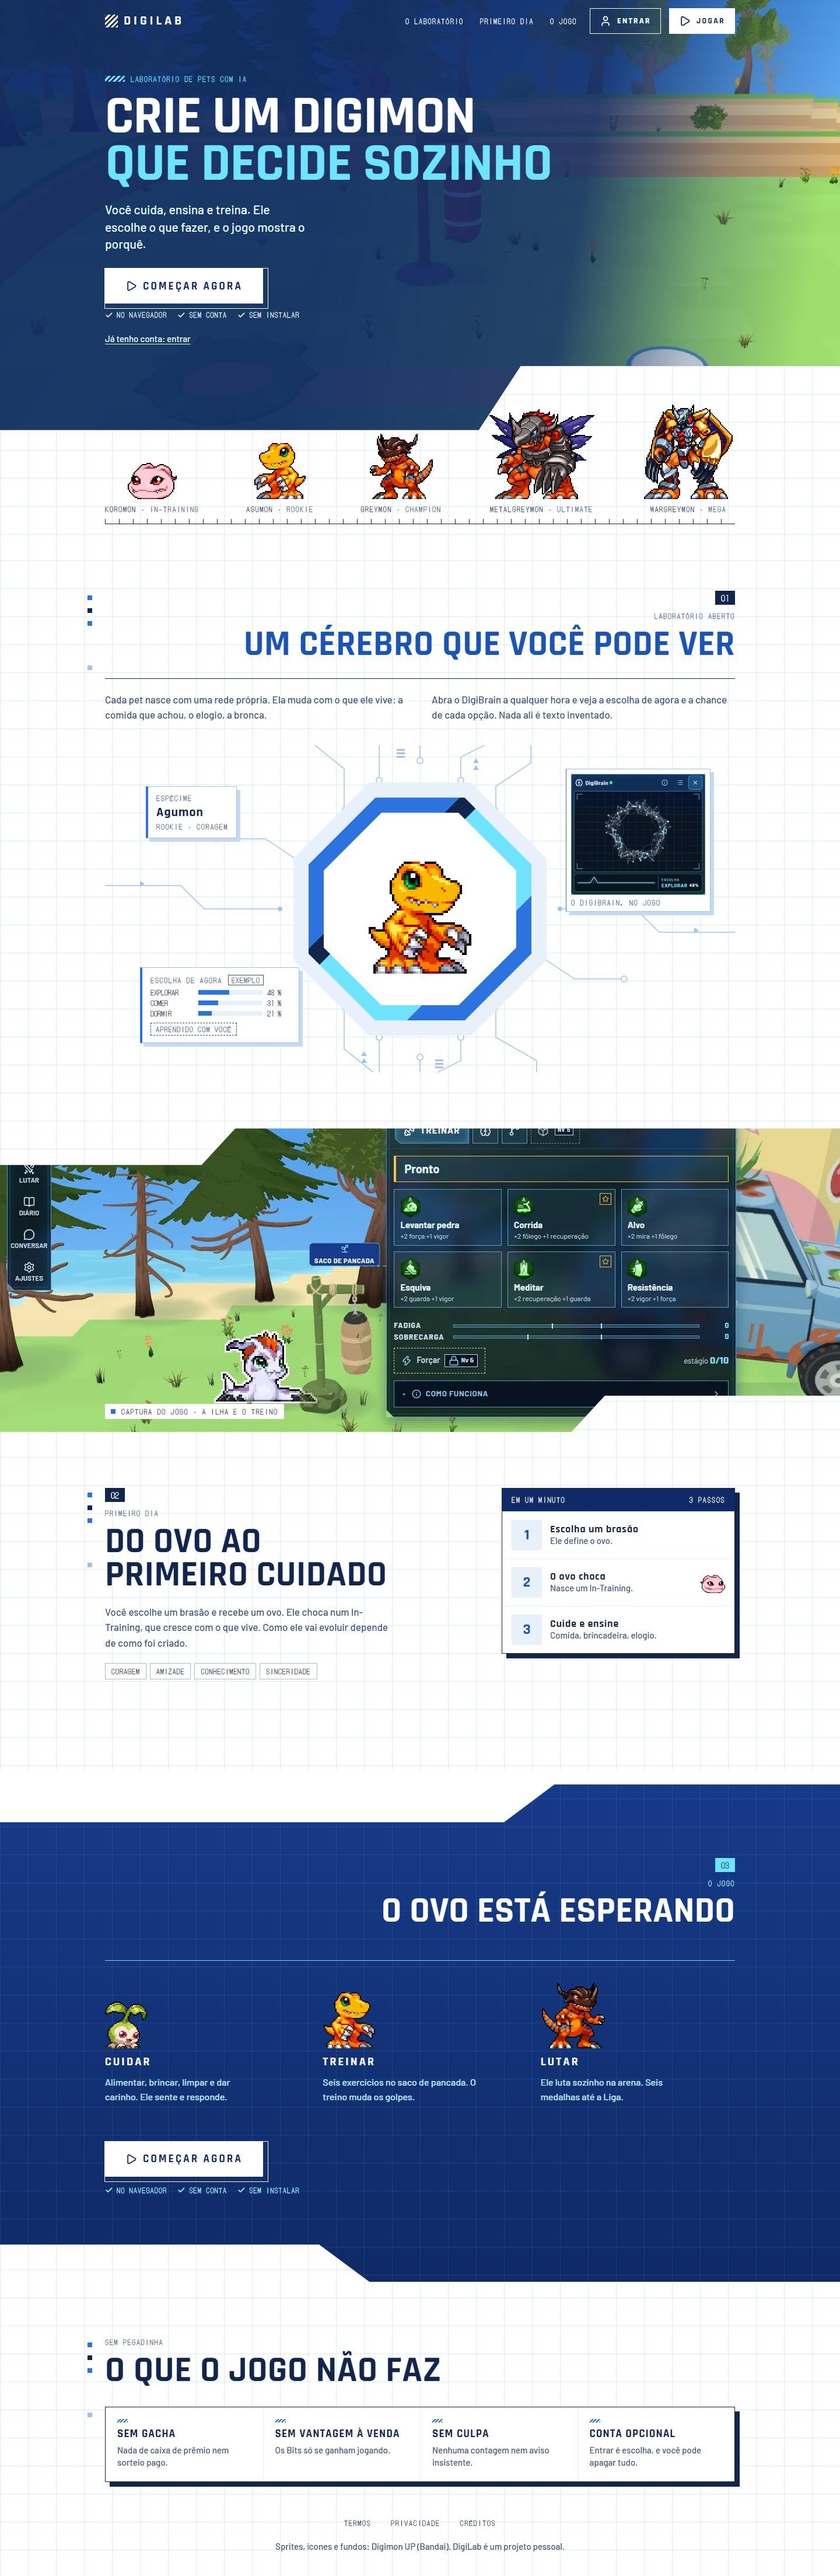
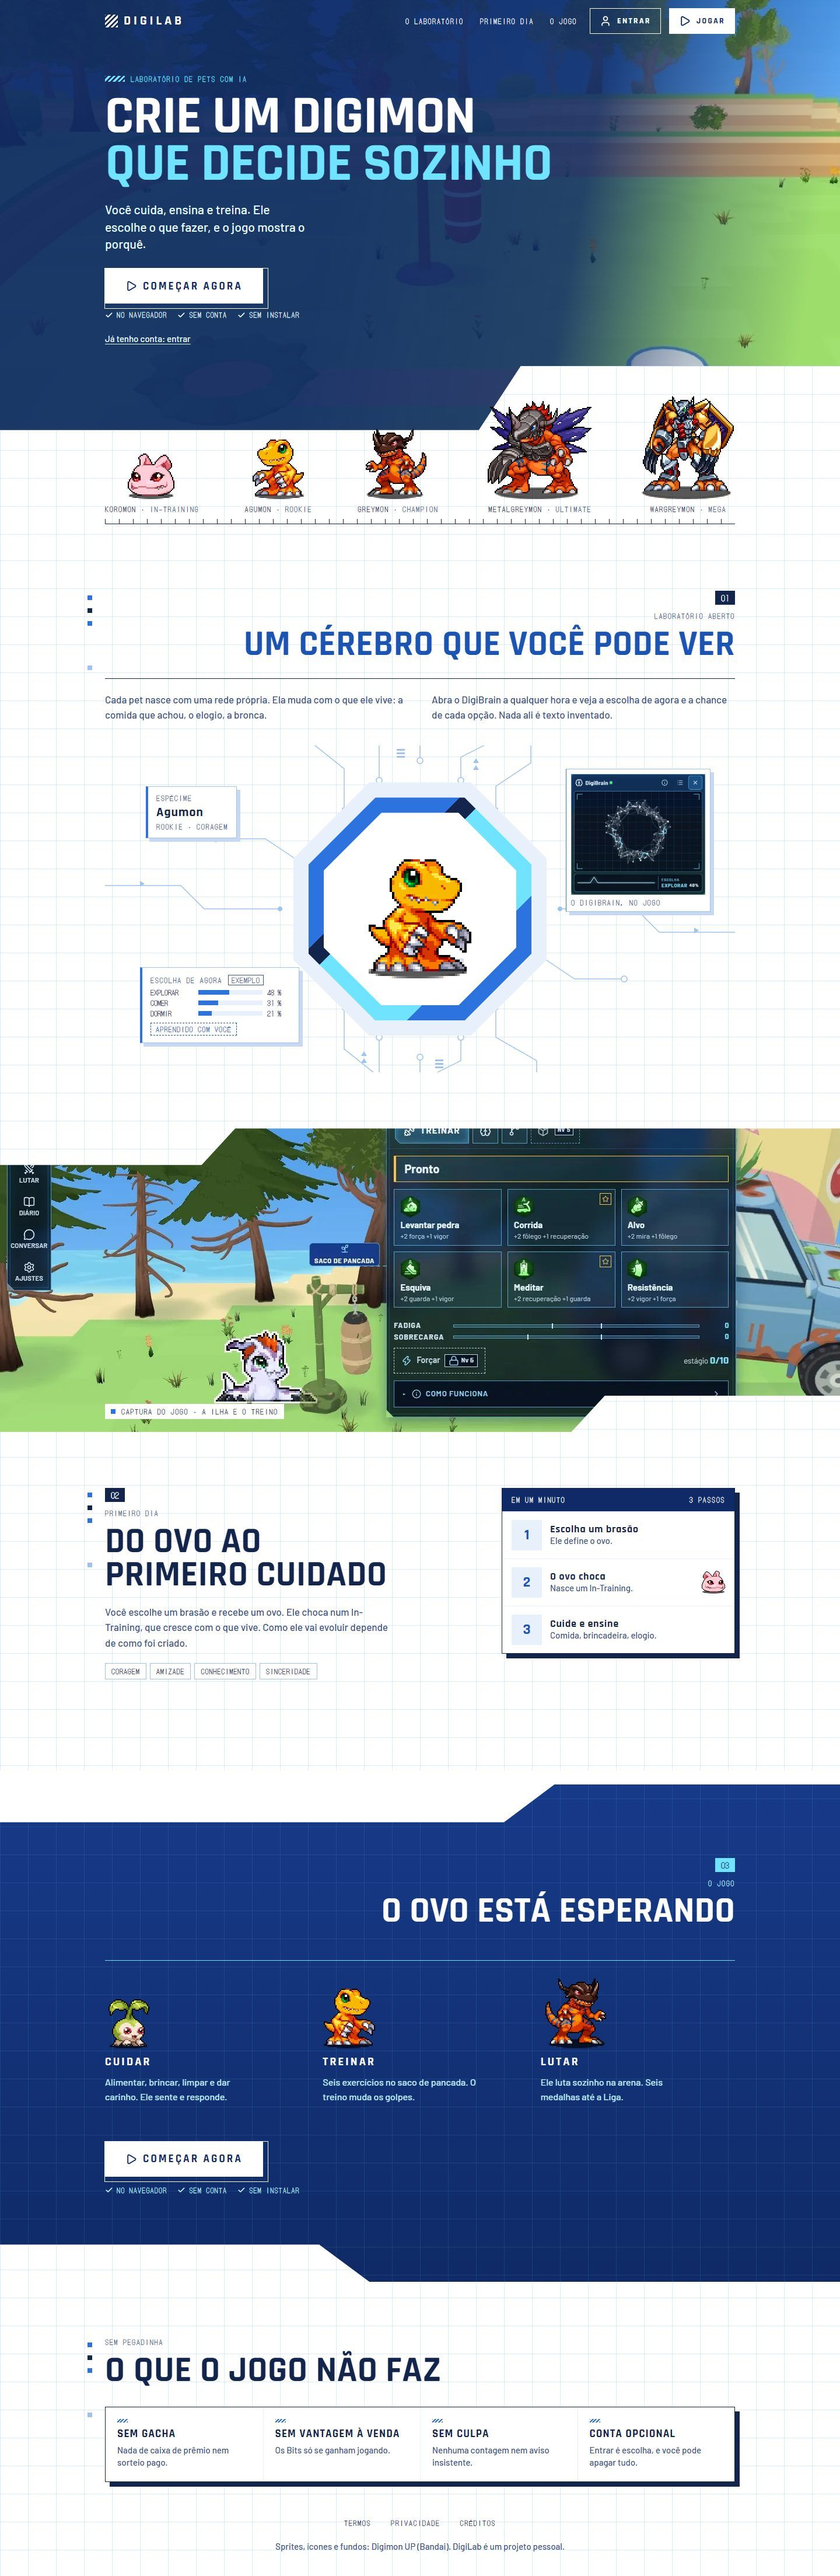
UX_TELA_PET: os pets da pagina de entrada pelo atlas de clipes (o do jogo)
A primeira versao lia o digilab_atlas_up.json antigo. O jogo desenha as formas pelo digilab_atlas_up_clipes.json (CLIPES_UP = true);
a pagina agora toca o clipe Idle dele, com a duracao de cada quadro, recortado ao minimo que contem os quadros do Idle. O dev da POC
passa a servir os dois arquivos do atlas de clipes.

diff --git a/web/app/poc/home/pet.tsx b/web/app/poc/home/pet.tsx
@@ -1,35 +1,47 @@
-/* Os pets da página de entrada: o ciclo parado (Idle) do atlas do jogo (Assets/digilab_atlas_up.json, fora do git), desenhado num
-   canvas em escala inteira, sem suavizar, como o desenharSprite do jogo (src/atlas.ts). O quadro é [x, y, w, h, ox, oy]: o recorte na
-   folha e o deslocamento dentro da caixa comum do ciclo.
+/* Os pets da página de entrada: o clipe Idle do atlas de clipes do Digimon UP (Assets/digilab_atlas_up_clipes.json, fora do git), o MESMO
+   que o jogo usa para as formas (src/atlas.ts, CLIPES_UP = true: juntarClipes troca o sprite do atlas antigo pelo do atlas de clipes). O
+   digilab_atlas_up.json antigo não entra aqui. Desenho num canvas em escala inteira, sem suavizar, como o desenharSprite do jogo.
+   - O quadro é [x, y, w, h, ox, oy]: o recorte na folha e o deslocamento dentro da caixa do sprite. A caixa dos clipes é larga (cabe as
+     outras ações e a base é o pé), então a página recorta a caixa ao mínimo que contém todos os quadros do Idle (RECORTE abaixo).
+   - Os recortes são cópias do atlas, para o espaço não depender da arte (guia, princípio 7). Se o atlas mudar e o Digimon ou o recorte
+     não baterem, o pet mostra "erro" na tela.
    - O atlas só é servido no modo dev (poc/vite.config.ts). No build e no e2e ele não existe: cada pet vira uma caixa visível
-     "sprite ausente", do tamanho da caixa dele (guia, princípio 8: falhar alto), e o console recebe um aviso, não um erro.
-   - As caixas abaixo são cópias do atlas, para o espaço não depender da arte (guia, princípio 7). Se o atlas mudar e a caixa ou o
-     Digimon não baterem, o pet mostra o erro na tela.
-   - Movimento (guia, seção 11): um quadro a cada ms_por_quadro do atlas (120 ms), só enquanto o pet está na tela; com
-     prefers-reduced-motion, o quadro 0 e nada se mexe. */
+     "sprite ausente", do tamanho do recorte (guia, princípio 8: falhar alto), e o console recebe um aviso, não um erro.
+   - Movimento (guia, seção 11): cada quadro dura o `ms` dele no clipe (133 ms nos da linha do Agumon), só enquanto o pet está na tela;
+     com prefers-reduced-motion, o quadro 0 e nada se mexe. */
 import { useEffect, useRef, useState, useSyncExternalStore } from "react";
 
 type Quadro = [number, number, number, number, number, number];
-interface SpriteAtlas { digimon?: string; caixa: [number, number]; quadros: Quadro[] }
-interface DadosAtlas { ms_por_quadro: number; sprites: Record<string, SpriteAtlas> }
+interface Clipe { quadros: Quadro[]; ms: number[]; loop: boolean }
+interface SpriteClipes { digimon?: string; caixa: [number, number]; clipes: Record<string, Clipe | undefined> }
+interface DadosClipes { sprites: Record<string, SpriteClipes> }
 type EstadoAtlas =
   | { tipo: "carregando" }
-  | { tipo: "ok"; dados: DadosAtlas; img: HTMLImageElement }
+  | { tipo: "ok"; dados: DadosClipes; img: HTMLImageElement }
   | { tipo: "ausente"; motivo: string };
 
-/** a forma na tela (o nome do Digimon) → a chave no atlas e a caixa do ciclo, em pixels nativos */
+/** a forma na tela (o nome do Digimon) → a chave no atlas de clipes e o recorte [x0, y0, w, h] do Idle dentro da caixa, em pixels nativos */
 export const FORMAS = {
-  Koromon: { chave: "brasa_bebe", caixa: [42, 36] },
-  Tanemon: { chave: "limo_bebe", caixa: [36, 40] },
-  Agumon: { chave: "brasa_crianca_sereno", caixa: [46, 49] },
-  Greymon: { chave: "brasa_adolescente_brigao", caixa: [57, 58] },
-  MetalGreymon: { chave: "brasa_adulto_duelista", caixa: [91, 79] },
-  WarGreymon: { chave: "brasa_adulto_furioso", caixa: [80, 82] },
-} as const satisfies Record<string, { chave: string; caixa: readonly [number, number] }>;
+  Koromon: { chave: "brasa_bebe", recorte: [55, 39, 42, 39] },
+  Tanemon: { chave: "limo_bebe", recorte: [56, 15, 41, 44] },
+  Agumon: { chave: "brasa_crianca_sereno", recorte: [32, 9, 46, 53] },
+  Greymon: { chave: "brasa_adolescente_brigao", recorte: [22, 9, 57, 63] },
+  MetalGreymon: { chave: "brasa_adulto_duelista", recorte: [59, 20, 96, 84] },
+  WarGreymon: { chave: "brasa_adulto_furioso", recorte: [84, 52, 80, 90] },
+} as const satisfies Record<string, { chave: string; recorte: readonly [number, number, number, number] }>;
 export type Forma = keyof typeof FORMAS;
 
-const ATLAS_JSON = "/Assets/digilab_atlas_up.json";
-const ATLAS_PNG = "/Assets/digilab_atlas_up.png";
+const ATLAS_JSON = "/Assets/digilab_atlas_up_clipes.json";
+const ATLAS_PNG = "/Assets/digilab_atlas_up_clipes.png";
+
+/** o menor retângulo da caixa que contém todos os quadros não vazios do clipe */
+function recorteDoClipe(c: Clipe): [number, number, number, number] {
+  const q = c.quadros.filter(x => x[2] > 0 && x[3] > 0);
+  if (q.length === 0) throw new Error("clipe sem quadro");
+  const x0 = Math.min(...q.map(x => x[4])), y0 = Math.min(...q.map(x => x[5]));
+  const x1 = Math.max(...q.map(x => x[4] + x[2])), y1 = Math.max(...q.map(x => x[5] + x[3]));
+  return [x0, y0, x1 - x0, y1 - y0];
+}
 
 /* ---- o atlas: carregado uma vez, para todos os pets */
 let estado: EstadoAtlas = { tipo: "carregando" };
@@ -41,12 +53,12 @@ function carregar(): void {
   pedido = true;
   /* no build da POC o atlas não é servido: nem pede (um 404 viraria erro no console do e2e) */
   if (!import.meta.env.DEV) {
-    console.warn("[home] build sem o atlas do Digimon UP (fica fora do git); os pets aparecem como caixas marcadas");
+    console.warn("[home] build sem o atlas de clipes do Digimon UP (fica fora do git); os pets aparecem como caixas marcadas");
     queueMicrotask(() => mudar({ tipo: "ausente", motivo: "build sem atlas" }));
     return;
   }
   fetch(ATLAS_JSON)
-    .then(r => { if (!r.ok) throw new Error(`HTTP ${r.status} em ${ATLAS_JSON}`); return r.json() as Promise<DadosAtlas>; })
+    .then(r => { if (!r.ok) throw new Error(`HTTP ${r.status} em ${ATLAS_JSON}`); return r.json() as Promise<DadosClipes>; })
     .then(dados => new Promise<EstadoAtlas>((ok, falha) => {
       const img = new Image();
       img.onload = () => ok({ tipo: "ok", dados, img });
@@ -56,8 +68,7 @@ function carregar(): void {
     .then(mudar)
     .catch((e: unknown) => {
       const motivo = e instanceof Error ? e.message : String(e);
-      /* aviso, não erro: no build da POC o atlas não existe de propósito (fica fora do git) */
-      console.warn("[home] atlas do Digimon UP ausente; os pets aparecem como caixas marcadas:", motivo);
+      console.warn("[home] atlas de clipes do Digimon UP ausente; os pets aparecem como caixas marcadas:", motivo);
       mudar({ tipo: "ausente", motivo });
     });
 }
@@ -83,7 +94,7 @@ interface PropsPet {
   k: number;
   /** escala inteira de 600 px em diante (padrão: a mesma) */
   kLargo?: number;
-  /** espelhado (olhando para a direita) */
+  /** espelhado */
   vira?: boolean;
   /** decorativo: o nome já está escrito ao lado */
   decorativo?: boolean;
@@ -95,18 +106,20 @@ export function Pet({ forma, k, kLargo, vira = false, decorativo = false }: Prop
   const largo = useLargo();
   const esc = largo ? (kLargo ?? k) : k;
   if (!Number.isInteger(esc) || esc < 1) throw new Error(`escala de sprite só inteira: ${forma} ${esc}`);
-  const { chave, caixa } = FORMAS[forma];
-  const [cw, ch] = caixa;
+  const { chave, recorte } = FORMAS[forma];
+  const [rx, ry, rw, rh] = recorte;
   const tela = useRef<HTMLCanvasElement>(null);
   const [visivel, setVisivel] = useState(false);
   const [quadro, setQuadro] = useState(0);
 
   const sprite = atlas.tipo === "ok" ? atlas.dados.sprites[chave] : undefined;
+  const idle = sprite?.clipes.Idle;
   let erro = "";
   if (atlas.tipo === "ok") {
     if (!sprite) erro = `atlas sem ${chave}`;
     else if (sprite.digimon !== forma) erro = `${chave} é ${sprite.digimon ?? "?"}, não ${forma}`;
-    else if (sprite.caixa[0] !== cw || sprite.caixa[1] !== ch) erro = `caixa de ${forma} mudou no atlas`;
+    else if (!idle || idle.quadros.length === 0 || idle.quadros.length !== idle.ms.length) erro = `${chave} sem Idle válido`;
+    else if (recorteDoClipe(idle).join(",") !== recorte.join(",")) erro = `o recorte de ${forma} mudou no atlas`;
   }
 
   /* só anima o que está na tela */
@@ -118,30 +131,31 @@ export function Pet({ forma, k, kLargo, vira = false, decorativo = false }: Prop
     return () => io.disconnect();
   }, [atlas.tipo, erro]);
 
+  /* cada quadro dura o ms dele no clipe */
   useEffect(() => {
-    if (atlas.tipo !== "ok" || !sprite || erro || reduzido || !visivel) { if (reduzido) setQuadro(0); return; }
-    const n = sprite.quadros.length;
-    const id = window.setInterval(() => setQuadro(q => (q + 1) % n), atlas.dados.ms_por_quadro);
-    return () => window.clearInterval(id);
-  }, [atlas, sprite, erro, reduzido, visivel]);
+    if (reduzido) { setQuadro(0); return; }
+    if (!idle || erro || !visivel || !idle.loop) return;
+    const id = window.setTimeout(() => setQuadro(q => (q + 1) % idle.quadros.length), idle.ms[quadro % idle.ms.length]);
+    return () => window.clearTimeout(id);
+  }, [idle, erro, reduzido, visivel, quadro]);
 
-  /* desenha o quadro em pixel inteiro do aparelho */
+  /* desenha o quadro em pixel inteiro do aparelho, deslocado pelo recorte */
   useEffect(() => {
     const c = tela.current;
-    if (atlas.tipo !== "ok" || !sprite || erro || !c) return;
+    if (atlas.tipo !== "ok" || !idle || erro || !c) return;
     const d = Math.max(1, Math.round(window.devicePixelRatio || 1));
     const p = esc * d;
-    c.width = cw * p;
-    c.height = ch * p;
+    c.width = rw * p;
+    c.height = rh * p;
     const g = c.getContext("2d");
     if (!g) throw new Error("canvas 2d indisponível");
     g.imageSmoothingEnabled = false;
     g.clearRect(0, 0, c.width, c.height);
-    const [sx, sy, w, h, ox, oy] = sprite.quadros[quadro % sprite.quadros.length];
-    g.drawImage(atlas.img, sx, sy, w, h, ox * p, oy * p, w * p, h * p);
-  }, [atlas, sprite, erro, quadro, esc, cw, ch]);
+    const [sx, sy, w, h, ox, oy] = idle.quadros[quadro % idle.quadros.length];
+    if (w > 0 && h > 0) g.drawImage(atlas.img, sx, sy, w, h, (ox - rx) * p, (oy - ry) * p, w * p, h * p);
+  }, [atlas, idle, erro, quadro, esc, rx, ry, rw, rh]);
 
-  const tam = { width: cw * esc, height: ch * esc };
+  const tam = { width: rw * esc, height: rh * esc };
   const rotulo = decorativo ? {} : { role: "img", "aria-label": forma };
   const ocultar = decorativo ? { "aria-hidden": true } : {};
   if (atlas.tipo === "ausente" || erro) {

diff --git a/web/app/poc/home/home.css b/web/app/poc/home/home.css
@@ -97,7 +97,7 @@ main:focus{outline:none}
 /* a linha do Agumon: a placa branca com o degrau, os pets em pé sobre a régua */
 /* a placa vai de ponta a ponta; --lado é resolvido na largura de cada elemento, por isso o herói não tem margem lateral e o texto e a
    placa têm a deles */
-.linha{position:relative;z-index:0;isolation:isolate;margin-top:auto;padding:64px var(--lado) 18px;color:var(--dl-text);--foco:var(--dl-action)}
+.linha{position:relative;z-index:0;isolation:isolate;margin-top:auto;padding:48px var(--lado) 18px;color:var(--dl-text);--foco:var(--dl-action)}
 .linha::before{content:"";position:absolute;inset:0;z-index:-1;background:var(--dl-surface);
   background:linear-gradient(var(--linha) 1px,transparent 1px) 0 0/48px 48px,linear-gradient(90deg,var(--linha) 1px,transparent 1px) 0 0/48px 48px,var(--dl-surface);
   clip-path:polygon(0 38%,57% 38%,62% 0,100% 0,100% 100%,0 100%)}

diff --git a/web/app/poc/vite.config.ts b/web/app/poc/vite.config.ts
@@ -16,6 +16,9 @@ const ASSETS = fileURLToPath(new URL("../../../../Assets/", import.meta.url));
 const ATLAS: Record<string, string> = {
   "/Assets/digilab_atlas_up.json": "application/json",
   "/Assets/digilab_atlas_up.png": "image/png",
+  /* o atlas de clipes, o que o jogo usa para as formas (CLIPES_UP): a página de entrada (home/) desenha os pets por ele */
+  "/Assets/digilab_atlas_up_clipes.json": "application/json",
+  "/Assets/digilab_atlas_up_clipes.png": "image/png",
 };
 
 function atlasDev(): Plugin {

diff --git a/docs/pranchas/ux-pagina-inicial/POC.md b/docs/pranchas/ux-pagina-inicial/POC.md
@@ -17,9 +17,9 @@ node poc/home/medir_contraste.mjs saida.json    # o contraste de cada texto cont
 
 | o quê | na prancha | na POC | por quê |
 |---|---|---|---|
-| **os pets** | o primeiro quadro da folha (o Greymon e o WarGreymon escolhidos à mão, `REGIAO` e `ARQ` do `gerar.py`) | o ciclo parado (Idle) do atlas do jogo, a 120 ms, num canvas em escala inteira | é o que o jogo mostra. No atlas, o Greymon já está de olho aberto no quadro 0, e o WarGreymon vem sem a poeira do golpe, então o `REGIAO` e o `ARQ` não são mais necessários |
+| **os pets** | o primeiro quadro das folhas de `Assets/arena_up/sprites/` (o Greymon e o WarGreymon escolhidos à mão, `REGIAO` e `ARQ` do `gerar.py`) | o clipe Idle do **atlas de clipes** (`Assets/digilab_atlas_up_clipes.json`), o mesmo que o jogo usa para as formas (`CLIPES_UP = true` em `src/atlas.ts`), num canvas em escala inteira, com a duração de cada quadro do clipe (133 ms na linha do Agumon) | é o que o jogo mostra. O `digilab_atlas_up.json` antigo não entra (a primeira versão deste PR usava ele, por engano; o Matheus apontou). A caixa dos clipes é larga, então a página recorta cada pet ao mínimo que contém todos os quadros do Idle (`FORMAS` em `pet.tsx`) |
 | **a régua no celular** | três pets (Koromon, Agumon, Greymon) | os cinco, em escala 1, em duas fileiras | a linha inteira, do In-Training ao Mega, cabe a 360 px |
-| **"Cuidar" na faixa azul** | o Tokomon | o Tanemon | o Tokomon não está no atlas do jogo; o Tanemon é um In-Training do jogo (limo) |
+| **"Cuidar" na faixa azul** | o Tokomon | o Tanemon | o Tokomon não está no atlas de clipes; o Tanemon é um In-Training do jogo (limo) |
 | **a ficha "Escolha de agora"** | as porcentagens marcadas como exemplo só na nota amarela | um selo "exemplo" na própria ficha | a página diz "Nada ali é texto inventado" logo acima, e a nota amarela não vai ao ar (guia, princípio 1) |
 | **o véu do herói** | navy-deep a 90 % até 30 % da largura, 34 % em 62 % | 92 % até 40 %, 86 % até 66 %, some em 92 %; o título um pouco menor nas larguras grandes (92 px no máximo, era 104) | o "que decide sozinho" em ciano passava sobre a grama clara: o pior pixel dava 1,93:1 a 1440 px |
 | **"Entrar"** | `#/config/conta`, que não existe no jogo | o caminho do jogo (`JOGO`), por enquanto | a conta vem com a CN2; o texto fica, como na prancha |
@@ -44,7 +44,8 @@ não usa `overflow-x: hidden` no `body` para esconder transbordo.
 
 ## O movimento (guia, seção 11)
 
-- **Os pets** tocam o ciclo parado a 120 ms (o `ms_por_quadro` do atlas), só enquanto estão na tela.
+- **Os pets** tocam o clipe Idle com a duração de cada quadro do clipe (133 ms na linha do Agumon, 100 ms no Tanemon), só enquanto estão
+  na tela.
 - **As seções** entram uma vez ao rolar: 180 ms, `ease-out`, subindo 12 px. O herói não anima.
 - **Os botões:** ao passar o mouse, a moldura deslocada encosta; ao pressionar, o botão desce 2 px em 80 ms. Nada pisca nem pulsa.
 - **Com `prefers-reduced-motion`,** os pets ficam no quadro 0, as seções já aparecem no lugar, e a cortina não abre: o link segue direto.
@@ -77,10 +78,11 @@ build da POC não tem o jogo: no e2e, a rota `/jogo/` responde uma página vazia
 
 ## Sem o atlas
 
-O atlas do Digimon UP fica fora do git, e o Vite da POC só o serve no dev. No build, cada pet vira uma caixa tracejada vermelha
-"sprite · Agumon", do tamanho da caixa do ciclo (guia, princípio 8). O console recebe um aviso, não um erro, e o build nem pede o atlas,
-porque um 404 viraria erro de console no e2e. As caixas das seis formas estão copiadas em `pet.tsx`; se o atlas mudar e o Digimon ou a
-caixa não baterem, o pet mostra "erro" na tela.
+O atlas de clipes do Digimon UP fica fora do git, e o Vite da POC só o serve no dev (o middleware do `poc/vite.config.ts`, que agora
+serve também os dois arquivos dele). No build, cada pet vira uma caixa tracejada vermelha
+"sprite · Agumon", do tamanho do recorte (guia, princípio 8). O console recebe um aviso, não um erro, e o build nem pede o atlas,
+porque um 404 viraria erro de console no e2e. Os recortes das seis formas estão copiados em `pet.tsx`; se o atlas mudar e o Digimon ou o
+recorte não baterem, o pet mostra "erro" na tela.
 
 ## As capturas
 
@@ -95,4 +97,4 @@ caixa não baterem, o pet mostra "erro" na tela.
 - A imagem de compartilhamento e os textos para os buscadores além do `description`.
 - A cortina só leva a `/jogo/`, que ainda não existe; ligar a página ao jogo de verdade é da CN6 (PI-3).
 - Sem JavaScript, a página é só um aviso com o link "Começar agora" (`<noscript>`): o conteúdo é todo do React.
-- O atlas inteiro tem 8 MB: serve para a POC, mas uma página pública pediria uma folha só com os seis pets.
+- O atlas de clipes inteiro tem 33 MB: serve para a POC, mas uma página pública pediria uma folha só com os seis pets.

diff --git a/docs/registro/2026-11.md b/docs/registro/2026-11.md
@@ -7919,9 +7919,11 @@ foi lido** para escrever o adendo: as vidas dela não foram abertas.
 
 ## 2026-11-12 — UX_TELA_PET: a POC da página de entrada (Claude Code, Opus 5.5, branch `v3-ux-home-poc`)
 
-- **D-UXHOME-1, os pets pelo ciclo do atlas:** a prancha recortava o primeiro quadro de cada folha (o `REGIAO` do Greymon e o `ARQ` do
-  WarGreymon). A POC toca o ciclo parado do atlas do jogo, em que o quadro 0 do Greymon já está de olho aberto e o WarGreymon vem sem a
-  poeira. O Tokomon da coluna "Cuidar" saiu, porque não está no atlas; entrou o Tanemon (limo, In-Training). No celular, a régua mostra os
+- **D-UXHOME-1, os pets pelo atlas de clipes:** a prancha recortava o primeiro quadro das folhas de `Assets/arena_up/sprites/` (o
+  `REGIAO` do Greymon e o `ARQ` do WarGreymon). A POC toca o clipe Idle do atlas de clipes (`digilab_atlas_up_clipes.json`), o mesmo que o
+  jogo usa para as formas (`CLIPES_UP = true`), recortado ao mínimo que contém os quadros do Idle. A primeira versão do PR lia o
+  `digilab_atlas_up.json` antigo, que o jogo não usa mais para as formas; o Matheus apontou, e foi trocado. O Tokomon da coluna "Cuidar"
+  saiu, porque não está no atlas de clipes; entrou o Tanemon (limo, In-Training). No celular, a régua mostra os
   cinco da linha do Agumon em duas fileiras, e não os três da prancha.
 - **D-UXHOME-2, o contraste do herói:** a medida pixel a pixel (`web/app/poc/home/medir_contraste.mjs`) deu 1,93:1 no pior pixel de "que
   decide sozinho" a 1440 px, com o véu da prancha. O véu foi estendido (`--dl-navy-deep` a 86 % até 66 % da largura) e o título caiu de

diff --git a/docs/TAREFA_V3_UX_TELA_PET.md b/docs/TAREFA_V3_UX_TELA_PET.md
@@ -1058,7 +1058,7 @@ Os desvios estão em `docs/registro/2026-11.md`, "UX_TELA_PET, D1e".
 ## 33. A POC da página de entrada (2026-11-12)
 
 A página A da prancha `docs/pranchas/ux-pagina-inicial/` (PI-1, escolhida pelo Matheus) virou uma POC em React + TypeScript + CSS, em
-`web/app/poc/home/`, fora do build do jogo. A POC acrescenta as larguras de 360 a 1920 px, os pets no ciclo parado do atlas, as seções que
+`web/app/poc/home/`, fora do build do jogo. A POC acrescenta as larguras de 360 a 1920 px, os pets no clipe Idle do atlas de clipes (o mesmo do jogo), as seções que
 entram ao rolar (tudo desligado com `prefers-reduced-motion`), o foco visível, o contraste medido pixel a pixel (nenhum texto abaixo de
 4,5:1) e a cortina da passagem para o jogo (PI-4, PROPOSTO). O e2e fica em `web/app/e2e_poc/home.spec.ts`. O que mudou da prancha, e por
 quê, está em `docs/pranchas/ux-pagina-inicial/POC.md`; os desvios, em `docs/registro/2026-11.md` (D-UXHOME-1 a 4).
